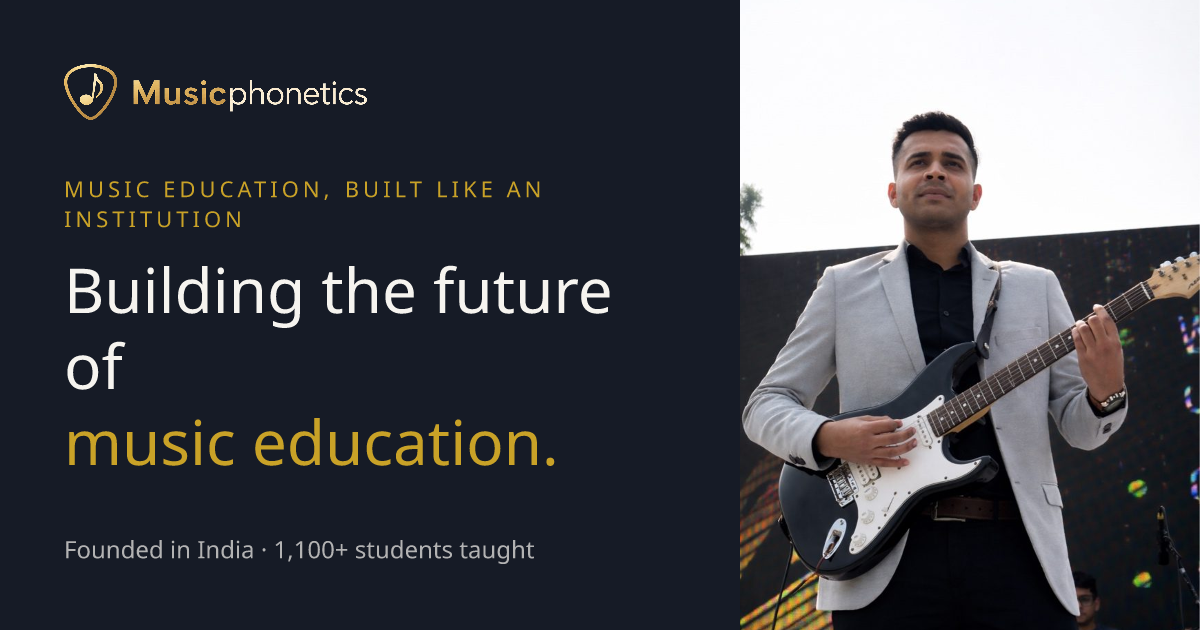
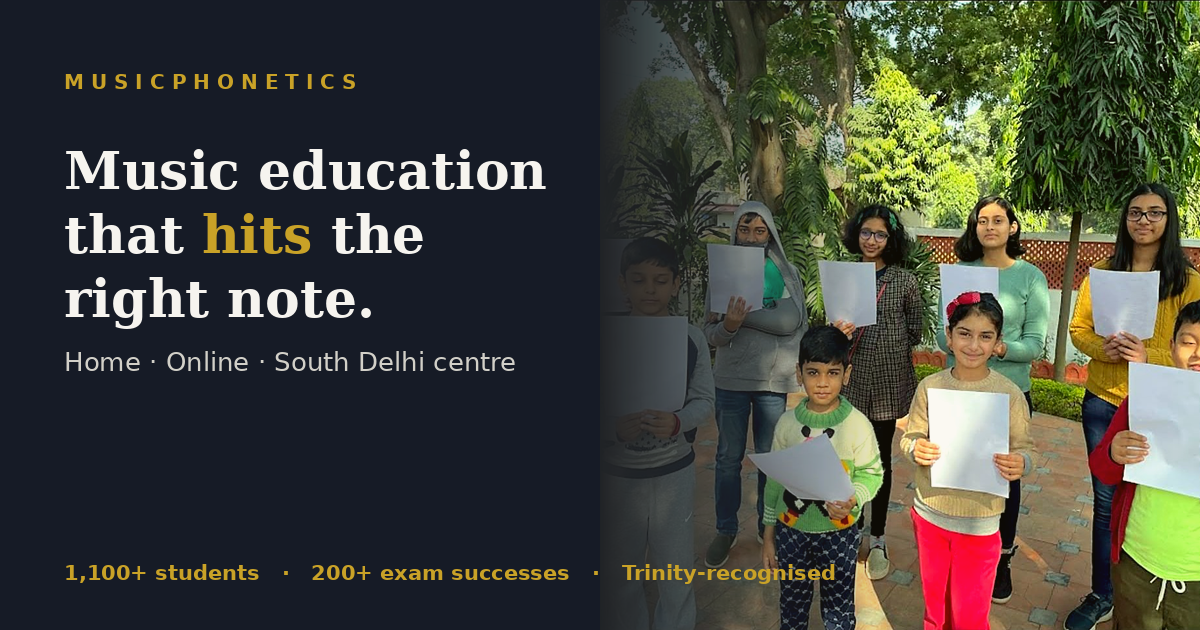
Add performance videos to homepage + warmer OG share image
- Re-add the "See us in action" section (your 6 YouTube performance clips, load-
  on-click facades) to the homepage, after Reviews; hero "Watch Our Story" now
  scrolls to it (#performances).
- Regenerate /og.png with the real students photo, gold "hits" headline, and a
  proof line (1,100+ students · 200+ exam successes · Trinity-recognised) so link
  previews feel warm and human.

Note: the clips are live performances, so the section is titled "See us in
action" rather than "Inside our lessons" (which would imply lesson footage).

Claude-Session: https://claude.ai/code/session_01YNVi6HKCUGJJWTqqANwDZB

diff --git a/app/(site)/page.tsx b/app/(site)/page.tsx
@@ -3,6 +3,7 @@ import { FounderFeature } from "@/components/sections/FounderFeature";
 import { AchievementsStrip } from "@/components/sections/AchievementsStrip";
 import { SafetyFirst } from "@/components/sections/SafetyFirst";
 import { ReviewsCompact } from "@/components/sections/ReviewsCompact";
+import { SeeUsInAction } from "@/components/sections/SeeUsInAction";
 import { ScheduleBlock } from "@/components/sections/ScheduleBlock";
 import { Plans } from "@/components/sections/Plans";
 import { ReassuranceChips } from "@/components/sections/ReassuranceChips";
@@ -22,6 +23,7 @@ export default function HomePage() {
       <AchievementsStrip />    {/* 3 · Fast proof row */}
       <SafetyFirst />          {/* Child safety — highlighted, high on the page */}
       <ReviewsCompact />       {/* 4 · Trust — defence families + premium reviews */}
+      <SeeUsInAction />        {/* See us in action — 6 performance clips */}
       <ScheduleBlock />        {/* 5 · How it works / schedule */}
       <Plans />                {/* 6 · Plans & fees */}
       <ReassuranceChips />     {/* Depth compressed to one line */}

diff --git a/components/sections/HeroConcierge.tsx b/components/sections/HeroConcierge.tsx
@@ -138,7 +138,7 @@ export function HeroConcierge() {
               <Button href="/start" variant="light" size="lg" className="px-9 py-4 text-base shadow-card-hover">
                 Book a Free Trial
               </Button>
-              <Button href="/founder" variant="secondary" size="lg" className="border-white/25 text-paper hover:border-white">
+              <Button href="#performances" variant="secondary" size="lg" className="border-white/25 text-paper hover:border-white">
                 Watch Our Story
               </Button>
             </motion.div>
